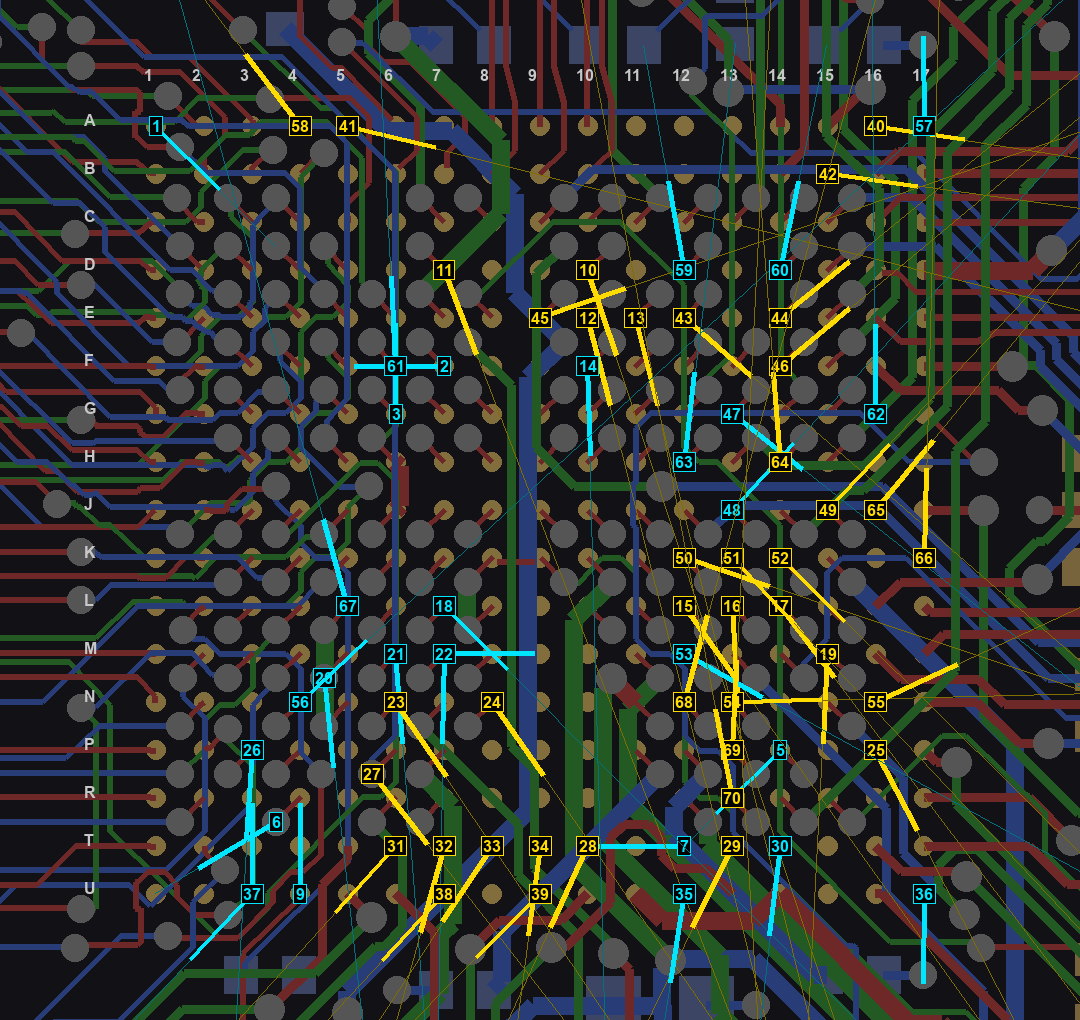
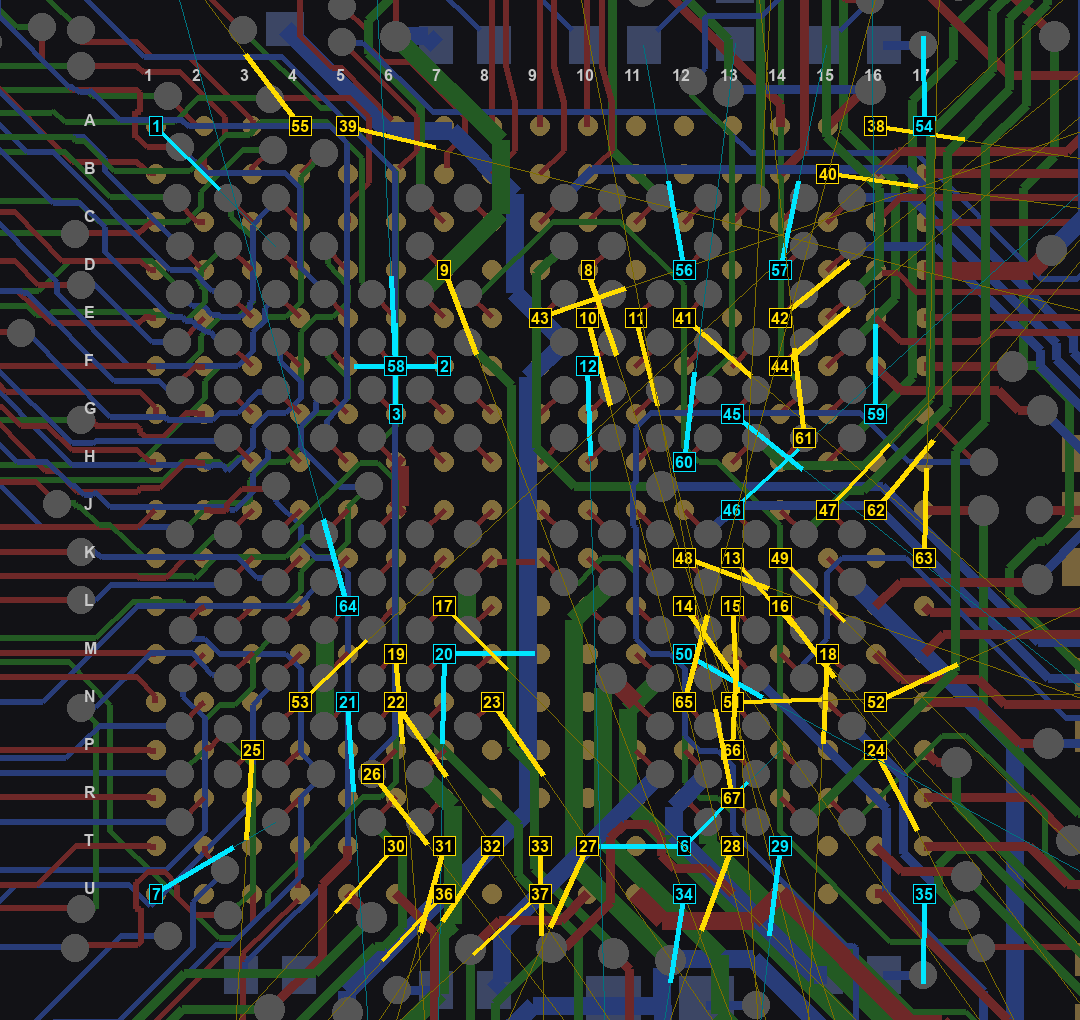
handroute_list.py: regenerate the U1 hand-route list and close-up from the current board
- runs kicad-cli DRC on a scratch copy, traces each open end to its copper, groups by exit side
- Kicad/handroute regenerated from ff6e513: 67 open U1 connections (was 70), 95 open in total

diff --git a/Kicad/tools/handroute_list.py b/Kicad/tools/handroute_list.py
@@ -1,0 +1,122 @@
+"""Hand-route list for U1: every open connection with one end at the ball grid (run with KiCad's bundled python3).
+usage: handroute_list.py [board.kicad_pcb] [out_dir]        defaults: Kicad/Nosh.kicad_pcb, Kicad/handroute/
+Runs kicad-cli DRC on a scratch copy (with the project's rules), traces each unconnected end to the copper it
+belongs to, groups the connections by the side they must leave on, and writes bga_handroute.md + bga_open.png."""
+import sys, os, json, math, re, shutil, subprocess, tempfile, collections
+import pcbnew
+from pcbnew import ToMM
+from PIL import Image, ImageDraw, ImageFont
+K = os.path.join(os.path.dirname(os.path.abspath(__file__)), '..') + '/'
+SRC = sys.argv[1] if len(sys.argv) > 1 else K + 'Nosh.kicad_pcb'
+OUT = sys.argv[2] if len(sys.argv) > 2 else K + 'handroute/'
+CLI = '/Applications/KiCad/KiCad.app/Contents/MacOS/kicad-cli'
+ROWS = 'ABCDEFGHJKLMNPRTU'
+POWER = re.compile(r'^(\+|GND$|NVCC_|VDD|ADC_VREFH|SDRAM_3V3|USB2_VBUS|DCDC_(IN|DIG|ANA|LP|LN)$)')
+# ---- DRC on a scratch copy next to the project files
+tmp = tempfile.mkdtemp(); shutil.copy(SRC, tmp + '/Nosh.kicad_pcb')
+for ext in ('kicad_pro', 'kicad_dru'):
+    if os.path.exists(K + 'Nosh.' + ext): shutil.copy(K + 'Nosh.' + ext, tmp + '/Nosh.' + ext)
+subprocess.run([CLI, 'pcb', 'drc', '--format', 'json', '-o', tmp + '/drc.json', tmp + '/Nosh.kicad_pcb'], check=True, capture_output=True)
+drc = json.load(open(tmp + '/drc.json'))
+b = pcbnew.LoadBoard(tmp + '/Nosh.kicad_pcb'); b.BuildConnectivity(); conn = b.GetConnectivity()
+def cluster(it):
+    """pads, vias and layers of the copper piece an item belongs to"""
+    seen = {it.m_Uuid.AsString(): it}; todo = [it]; plane = False
+    while todo:
+        x = todo.pop()
+        for y in conn.GetConnectedItems(x):
+            y = y.Cast()
+            if y.Type() == pcbnew.PCB_ZONE_T: plane = True; continue
+            k = y.m_Uuid.AsString()
+            if k not in seen: seen[k] = y; todo.append(y)
+    pads = sorted({'%s.%s' % (p.GetParentFootprint().GetReference(), p.GetNumber()) for p in seen.values() if p.Type() == pcbnew.PCB_PAD_T})
+    vias = [(round(ToMM(v.GetPosition().x), 2), round(ToMM(v.GetPosition().y), 2)) for v in seen.values() if v.Type() == pcbnew.PCB_VIA_T]
+    return dict(pads=pads, vias=vias, plane=plane)
+ends = []
+for v in drc['unconnected_items']:
+    e = []
+    for i in v['items']:
+        it = b.ResolveItem(pcbnew.KIID(i['uuid'])); it = it.Cast() if it else None
+        c = cluster(it) if it else dict(pads=[], vias=[], plane=False)
+        c.update(desc=i['description'], x=i['pos']['x'], y=i['pos']['y'], layer=b.GetLayerName(it.GetLayer()) if it else '?'); e.append(c)
+    ends.append(e)
+# ---- rows: one per connection with an end at the ball grid
+u1 = next(f for f in b.GetFootprints() if f.GetReference() == 'U1'); cx, cy = ToMM(u1.GetPosition().x), ToMM(u1.GetPosition().y)
+def ballpos(n): return (cx - 6.4 + (int(n[1:]) - 1) * 0.8, cy - 6.4 + ROWS.index(n[0]) * 0.8)
+def inbga(e): return abs(e['x'] - cx) <= 7.2 and abs(e['y'] - cy) <= 7.2
+def balls(e): return [p[3:] for p in e['pads'] if p.startswith('U1.')]
+rows = []
+for a, c in ends:
+    if not (inbga(a) or inbga(c)): continue
+    if not inbga(a): a, c = c, a
+    if inbga(c) and balls(c) and not balls(a): a, c = c, a
+    net = re.search(r'\[(.*?)\]', a['desc']).group(1); ba = balls(a); bb = balls(c)
+    ball = min(ba, key=lambda k: math.dist(ballpos(k), (a['x'], a['y']))) if ba else None
+    via = None
+    if ball:
+        bp = ballpos(ball); vs = [v for v in a['vias'] if math.dist(v, bp) < 0.8]
+        via = min(vs, key=lambda v: math.dist(v, bp)) if vs else None
+    if bb:
+        near = [k for k in bb if math.dist(ballpos(k), (c['x'], c['y'])) < 0.05]
+        far = ('U1 ball ' + near[0]) if near else ('%s via at (%.2f, %.2f)' % ('plane' if c['plane'] else 'fan-out', c['x'], c['y']))
+    else: far = ', '.join(c['pads'][:4]) + (' …' if len(c['pads']) > 4 else '')
+    dx, dy = c['x'] - cx, c['y'] - cy
+    side = 'inside' if inbga(c) else ('S' if abs(dy) >= abs(dx) and dy > 0 else 'N' if abs(dy) >= abs(dx) else 'E' if dx > 0 else 'W')
+    rows.append(dict(net=net, power=bool(POWER.match(net)), ball=ball, via=via, far=far, fx=c['x'], fy=c['y'], flayer=c['layer'], side=side,
+                     length=round(math.dist((a['x'], a['y']), (c['x'], c['y'])), 1), ax=a['x'], ay=a['y']))
+order = {'inside': 0, 'S': 1, 'E': 2, 'N': 3, 'W': 4}
+rows.sort(key=lambda r: (order[r['side']], r['ball'] or 'Z'))
+for i, r in enumerate(rows, 1): r['id'] = i
+# ---- close-up render, numbered at the ball end
+os.makedirs(OUT, exist_ok=True)
+x0, y0, x1, y1, k = cx - 9, cy - 8.5, cx + 9, cy + 8.5, 60
+F, B, SIG = b.GetLayerID('F.Cu'), b.GetLayerID('B.Cu'), b.GetLayerID('SIG')
+COL = {F: (110, 40, 40), SIG: (35, 90, 35), B: (40, 60, 120)}
+im = Image.new('RGB', (int((x1 - x0) * k), int((y1 - y0) * k)), (18, 18, 22)); d = ImageDraw.Draw(im)
+P = lambda x, y: ((x - x0) * k, (y - y0) * k)
+try: f = ImageFont.truetype('/System/Library/Fonts/Supplemental/Arial Bold.ttf', 16)
+except Exception: f = ImageFont.load_default()
+for fp in b.GetFootprints():
+    for p in fp.Pads():
+        x, y = ToMM(p.GetPosition().x), ToMM(p.GetPosition().y)
+        if not (x0 - 3 < x < x1 + 3 and y0 - 3 < y < y1 + 3): continue
+        bb_ = p.GetBoundingBox(); a_ = P(ToMM(bb_.GetLeft()), ToMM(bb_.GetTop())); c_ = P(ToMM(bb_.GetRight()), ToMM(bb_.GetBottom()))
+        if fp.GetReference() == 'U1': d.ellipse([a_, c_], fill=(130, 110, 60))
+        else: d.rectangle([a_, c_], fill=(120, 100, 60) if p.IsOnLayer(F) else (60, 70, 100))
+for t in b.GetTracks():
+    if t.Type() == pcbnew.PCB_TRACE_T and t.GetLayer() in COL:
+        d.line([P(ToMM(t.GetStart().x), ToMM(t.GetStart().y)), P(ToMM(t.GetEnd().x), ToMM(t.GetEnd().y))], fill=COL[t.GetLayer()], width=max(1, int(ToMM(t.GetWidth()) * k)))
+for t in b.GetTracks():
+    if t.Type() == pcbnew.PCB_VIA_T:
+        x, y = ToMM(t.GetPosition().x), ToMM(t.GetPosition().y); r = ToMM(t.GetWidth(F)) / 2
+        d.ellipse([P(x - r, y - r), P(x + r, y + r)], fill=(85, 85, 85))
+for i, rr in enumerate(ROWS): d.text(P(cx - 7.6, cy - 6.4 + i * 0.8 - 0.25), rr, fill=(200, 200, 200), font=f)
+for j in range(17): d.text(P(cx - 6.4 + j * 0.8 - 0.2, cy - 7.4), str(j + 1), fill=(200, 200, 200), font=f)
+for r in rows:
+    ax, ay, fx, fy = r['ax'], r['ay'], r['fx'], r['fy']; col = (0, 230, 255) if r['power'] else (255, 220, 0)
+    L = math.dist((ax, ay), (fx, fy)); u = ((fx - ax) / L, (fy - ay) / L) if L else (0, 0)
+    d.line([P(ax, ay), P(fx, fy)], fill=tuple(v // 2 for v in col), width=1)
+    d.line([P(ax, ay), P(ax + u[0] * 1.5, ay + u[1] * 1.5)], fill=col, width=5)
+    txt = str(r['id']); bw = d.textbbox((0, 0), txt, font=f); px, py = P(ax, ay); tx, ty = px - bw[2] / 2, py - bw[3] / 2 - 1
+    d.rectangle([tx - 2, ty - 1, tx + bw[2] + 2, ty + bw[3] + 3], fill=(0, 0, 0), outline=col); d.text((tx, ty), txt, fill=col, font=f)
+im.save(OUT + 'bga_open.png')
+# ---- markdown
+G = {'inside': 'Inside the grid: ball-to-ball links and balls not yet on their plane', 'S': 'Escaping south', 'E': 'Escaping east', 'N': 'Escaping north', 'W': 'Escaping west'}
+head = subprocess.run(['git', '-C', K, 'rev-parse', '--short', 'HEAD'], capture_output=True, text=True).stdout.strip()
+o = ['# MCU (U1) BGA connections to hand-route', '',
+     'Generated by `tools/handroute_list.py` from the KiCad DRC of commit %s: **%d open connections** have one end at the U1 ball grid (%d power, %d signal); %d open connections in total on the board.' % (head, len(rows), sum(r['power'] for r in rows), sum(not r['power'] for r in rows), len(drc['unconnected_items'])),
+     '', 'Numbers match the labels in `bga_open.png` (label = the ball end; yellow = signal, cyan = power; the short bar points toward the other end).',
+     'Balls are 0.8 mm pitch, A1 at (%.1f, %.1f), rows A–U top to bottom, columns 1–17 left to right. Coordinates are mm from the board origin (top-left, y down).' % ballpos('A1'),
+     '', '- **Fan-out via** is the dog-bone via already on that ball: start there. "none" means the ball has no fan-out yet (the outer two rings escape on F.Cu).',
+     "- **Other end** is where KiCad's ratsnest line lands (a pad, or the end of copper already routed on that net) and the pads it is part of.",
+     '- Inside the grid only 0.1 mm tracks fit between the fan-out vias; no tracks on GND1, PWR or GND2.', '']
+for side in ('inside', 'S', 'E', 'N', 'W'):
+    rs = [r for r in rows if r['side'] == side]
+    if not rs: continue
+    o += ['## %s (%d)' % (G[side], len(rs)), '', '| # | Net | Ball | Fan-out via | Other end | At (x, y), layer | Airline mm |', '|---|---|---|---|---|---|---|']
+    for r in rs:
+        o.append('| %d | %s | %s | %s | %s | (%.2f, %.2f) %s | %.1f |' % (r['id'], r['net'] + (' ⚡' if r['power'] else ''), r['ball'] or '–', '(%.2f, %.2f)' % tuple(r['via']) if r['via'] else 'none', r['far'], r['fx'], r['fy'], r['flayer'], r['length']))
+    o.append('')
+o.append('⚡ = power net (route wider than 0.1 mm once outside the grid where there is room).')
+open(OUT + 'bga_handroute.md', 'w').write('\n'.join(o) + '\n')
+print('%d BGA connections (%s), %d open in total -> %sbga_handroute.md, bga_open.png' % (len(rows), dict(collections.Counter(r['side'] for r in rows)), len(drc['unconnected_items']), OUT))
